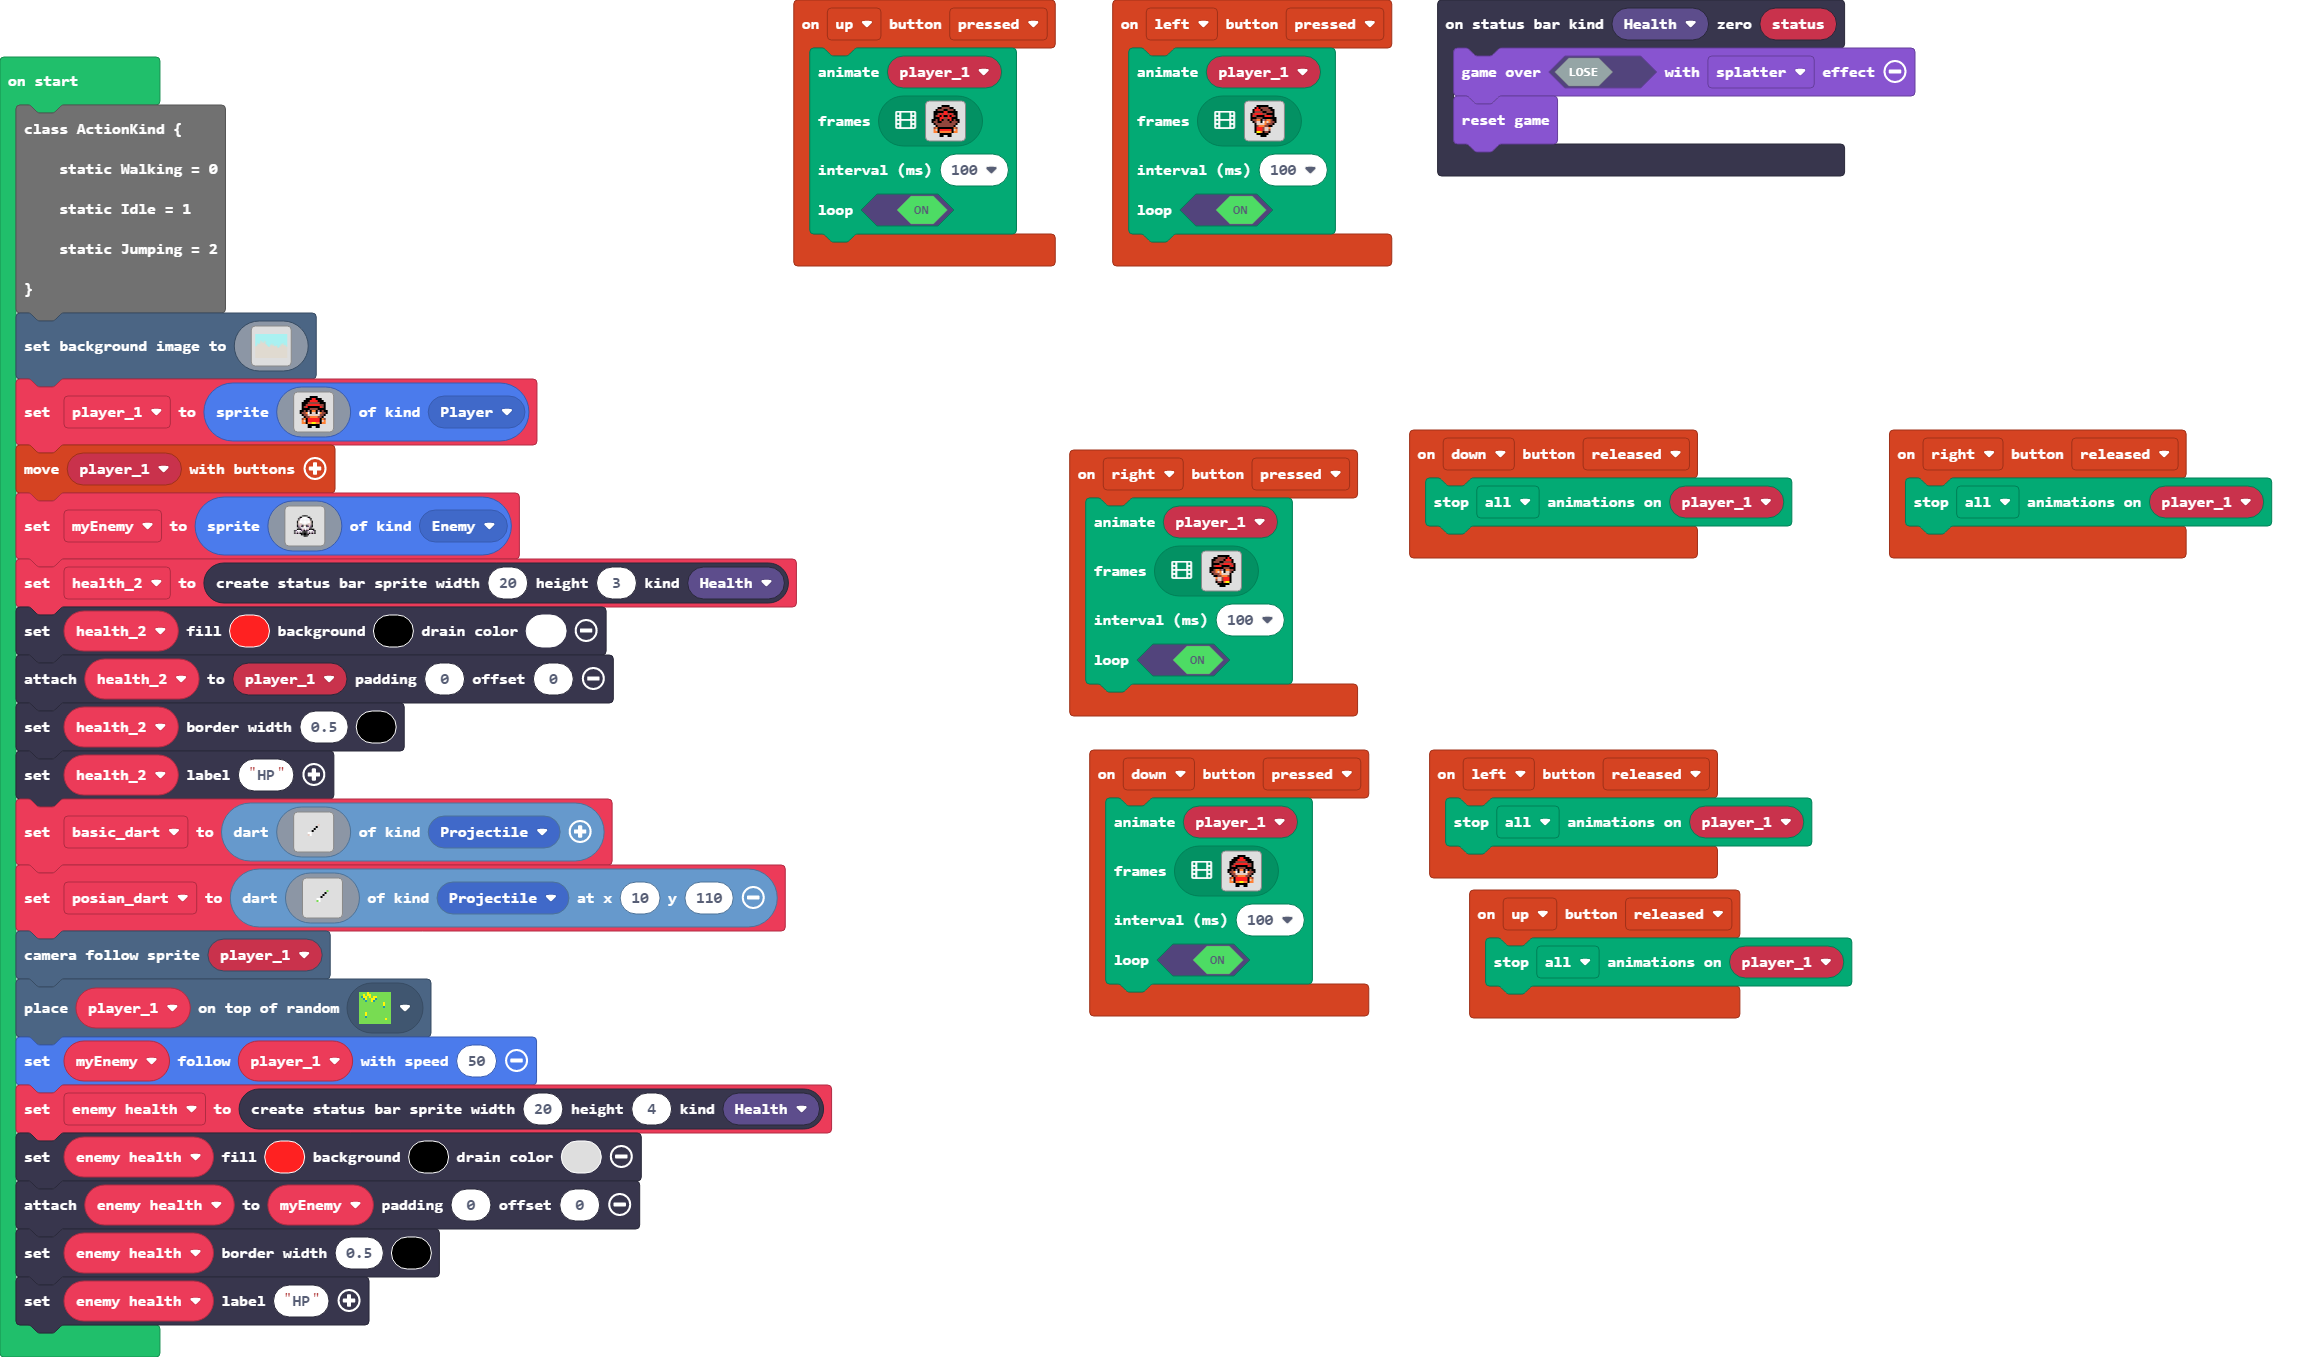
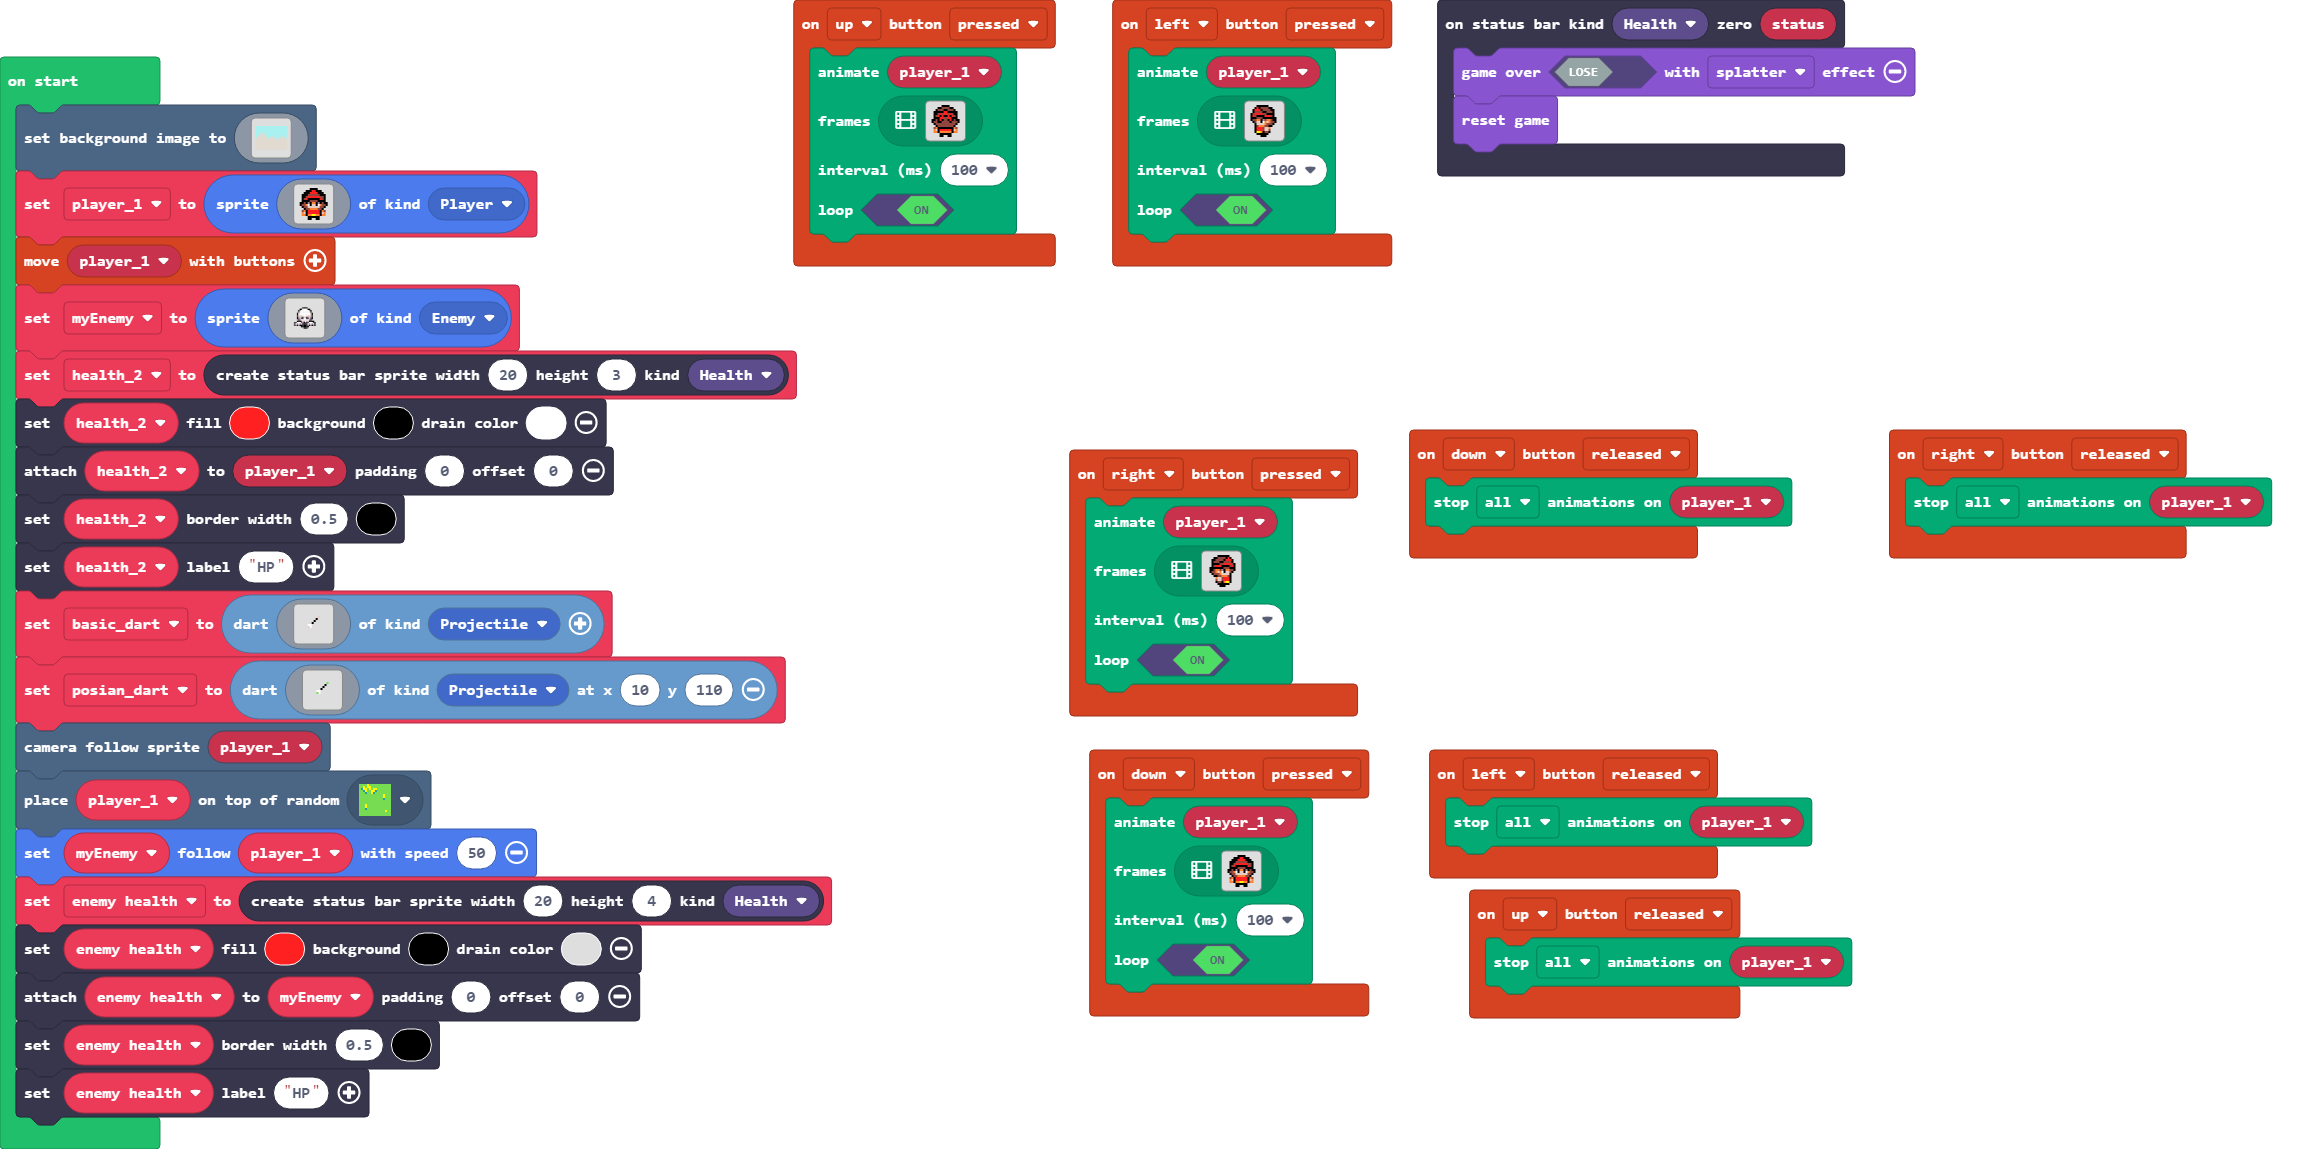
Update main.blocks, main.ts

diff --git a/main.ts b/main.ts
@@ -392,11 +392,6 @@ controller.down.onEvent(ControllerButtonEvent.Pressed, function () {
     )
 })
 let player_1: Sprite = null
-class ActionKind {
-    static Walking = 0
-    static Idle = 1
-    static Jumping = 2
-}
 scene.setBackgroundImage(img`
     9999999999999999999999999999999999999999999999999999999999999999999999999999999999999999999999999999999999999999999999999999999999999999999999999999999999999999
     9999999999999999999999999999999999999999999999999999999999999999999999999999999999999999999999999999999999999999999999999999999999999999999999999999999999999999
